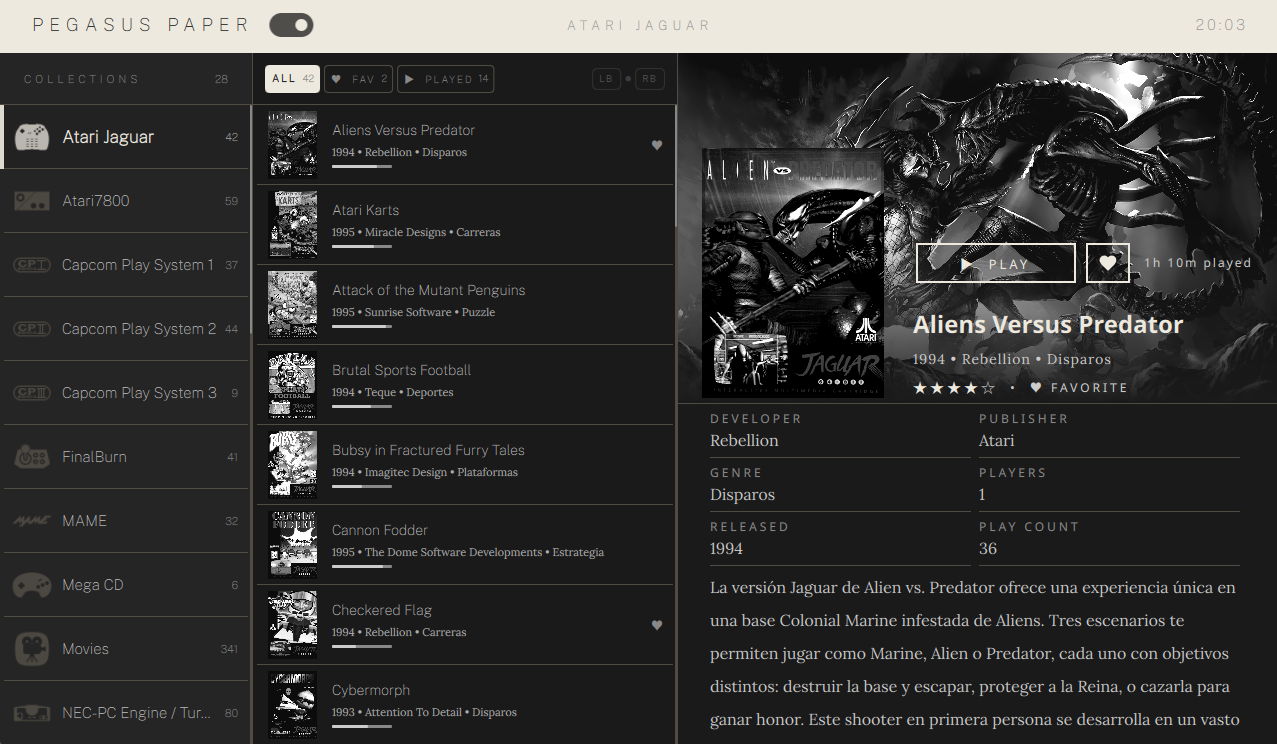
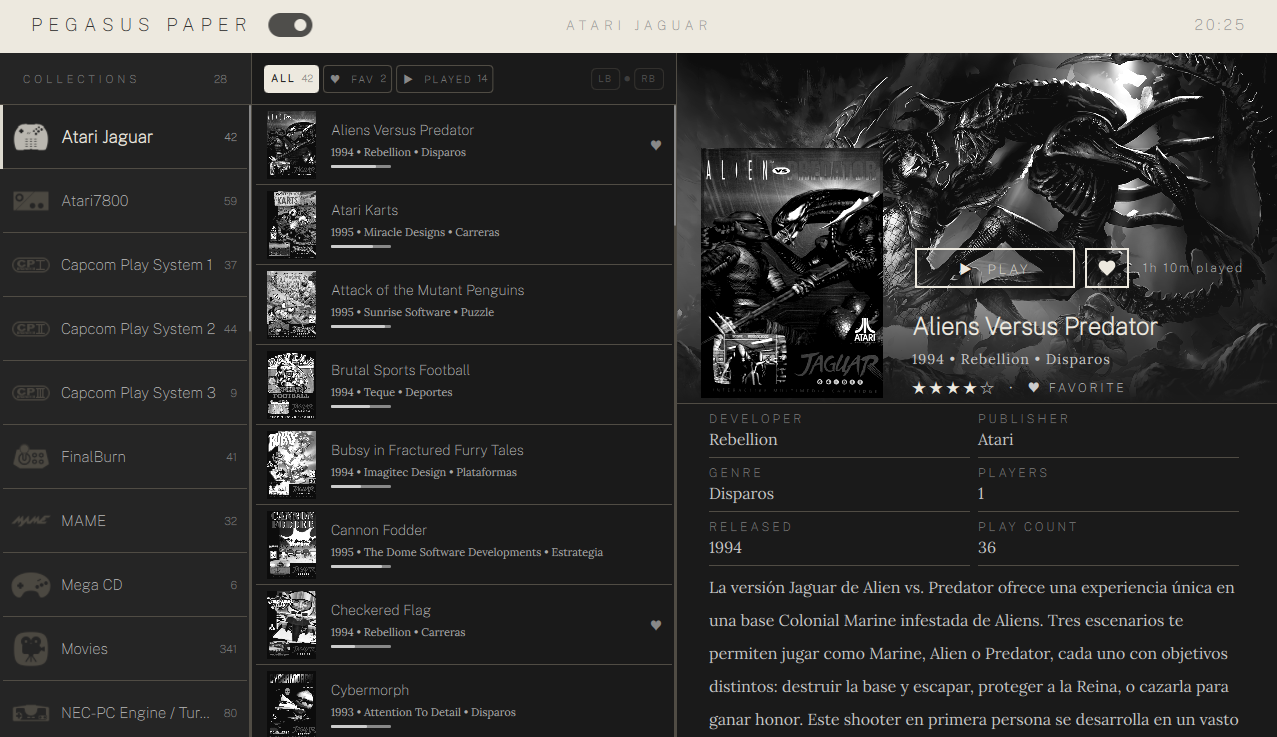
update-21-2-26

diff --git a/GameList.qml b/GameList.qml
@@ -2,6 +2,7 @@ import QtQuick 2.15
 import SortFilterProxyModel 0.2
 import "util.js" as Util
 
+
 Item {
     id: root
 
@@ -68,10 +69,22 @@ Item {
         savedIndex = 0
         list.currentIndex = hasFocus ? 0 : -1
         if (filteredModel.count > 0) {
-            currentGame = filteredModel.get(0)
+            currentGame = _resolveRealGame(0)
         } else {
             currentGame = null
         }
+    }
+
+    function _resolveRealGame(proxyIndex) {
+        if (!collectionModel) return null
+            var proxy = filteredModel.get(proxyIndex)
+            if (!proxy) return null
+                var targetTitle = proxy.title
+                for (var i = 0; i < collectionModel.games.count; i++) {
+                    var real = collectionModel.games.get(i)
+                    if (real && real.title === targetTitle) return real
+                }
+                return proxy
     }
 
     SoundManager { id: sfx }
@@ -92,7 +105,23 @@ Item {
         savedIndex = next
     }
     function launchCurrent()  { if (currentGame) currentGame.launch() }
-    function toggleFavorite() { if (currentGame) currentGame.favorite = !currentGame.favorite }
+    function toggleFavorite() {
+        if (!currentGame) return
+            currentGame.favorite = !currentGame.favorite
+            if (activeFilter === 1) {
+                Qt.callLater(function() {
+                    if (filteredModel.count === 0) {
+                        activeFilter = 0
+                        _resetListIndex()
+                    } else {
+                        var safeIdx = Math.min(savedIndex, filteredModel.count - 1)
+                        list.currentIndex = safeIdx
+                        savedIndex = safeIdx
+                        currentGame = _resolveRealGame(safeIdx)
+                    }
+                })
+            }
+    }
 
     property int savedIndex: 0
 
@@ -108,12 +137,8 @@ Item {
     onCollectionModelChanged: {
         activeFilter = 0
         savedIndex   = 0
-        if (filteredModel.count > 0) {
-            currentGame = filteredModel.get(0)
-        } else {
-            currentGame = (collectionModel && collectionModel.games.count > 0)
-            ? collectionModel.games.get(0) : null
-        }
+        currentGame  = (collectionModel && collectionModel.games.count > 0)
+        ? collectionModel.games.get(0) : null
     }
 
     SortFilterProxyModel {
@@ -415,7 +440,7 @@ Item {
 
         onCurrentIndexChanged: {
             if (currentIndex >= 0) {
-                var g = filteredModel.get(currentIndex)
+                var g = root._resolveRealGame(currentIndex)
                 if (g) {
                     currentGame = g
                     savedIndex  = currentIndex
@@ -535,12 +560,16 @@ Item {
                     sfx.playMove()
                     list.currentIndex = index
                     savedIndex = index
+                    var g = root._resolveRealGame(index)
+                    if (g) currentGame = g
                 }
                 onDoubleClicked: {
                     list.currentIndex = index
                     sfx.playMove()
                     savedIndex = index
-                    if (currentGame) currentGame.launch()
+                    var g = root._resolveRealGame(index)
+                    if (g) currentGame = g
+                        if (currentGame) currentGame.launch()
                 }
             }
         }

diff --git a/GameDetail.qml b/GameDetail.qml
@@ -25,7 +25,7 @@ Item {
     Text {
         anchors.centerIn: parent
         text: "← Select a game"
-        font.family: theFonts.publicSansSans
+        font.family: theFonts.publicSans
         font.pixelSize: vpx(14)
         font.letterSpacing: vpx(3)
         color: inkFaint
@@ -136,7 +136,7 @@ Item {
                                 Text {
                                     anchors.centerIn: parent
                                     text: "▶  PLAY"
-                                    font.family: theFonts.publicSansSans
+                                    font.family: theFonts.publicSans
                                     font.pixelSize: vpx(13)
                                     font.letterSpacing: vpx(3)
                                     color: btnMouse.containsMouse ? bgColor : inkBlack
@@ -206,7 +206,7 @@ Item {
                                 anchors.left: favBtn.right
                                 anchors.leftMargin: vpx(14)
                                 anchors.verticalCenter: parent.verticalCenter
-                                font.family: theFonts.publicSansSans
+                                font.family: theFonts.publicSans
                                 font.pixelSize: vpx(12)
                                 font.letterSpacing: vpx(2)
                                 color: inkMid
@@ -224,7 +224,7 @@ Item {
                         Text {
                             width: parent.width
                             text: game ? Util.cleanGameTitle(game.title) : ""
-                            font.family: theFonts.publicSansSans
+                            font.family: theFonts.publicSans
                             font.pixelSize: vpx(24)
                             font.bold: true
                             color: inkBlack
@@ -257,7 +257,7 @@ Item {
 
                             Text {
                                 text: "  •  ♥ FAVORITE"
-                                font.family: theFonts.publicSansSans
+                                font.family: theFonts.publicSans
                                 font.pixelSize: vpx(12)
                                 font.letterSpacing: vpx(3)
                                 color: inkMid
@@ -303,7 +303,7 @@ Item {
 
                                 Text {
                                     text: modelData.label
-                                    font.family: theFonts.publicSansSans
+                                    font.family: theFonts.publicSans
                                     font.pixelSize: vpx(12)
                                     font.letterSpacing: vpx(3)
                                     color: inkFaint
